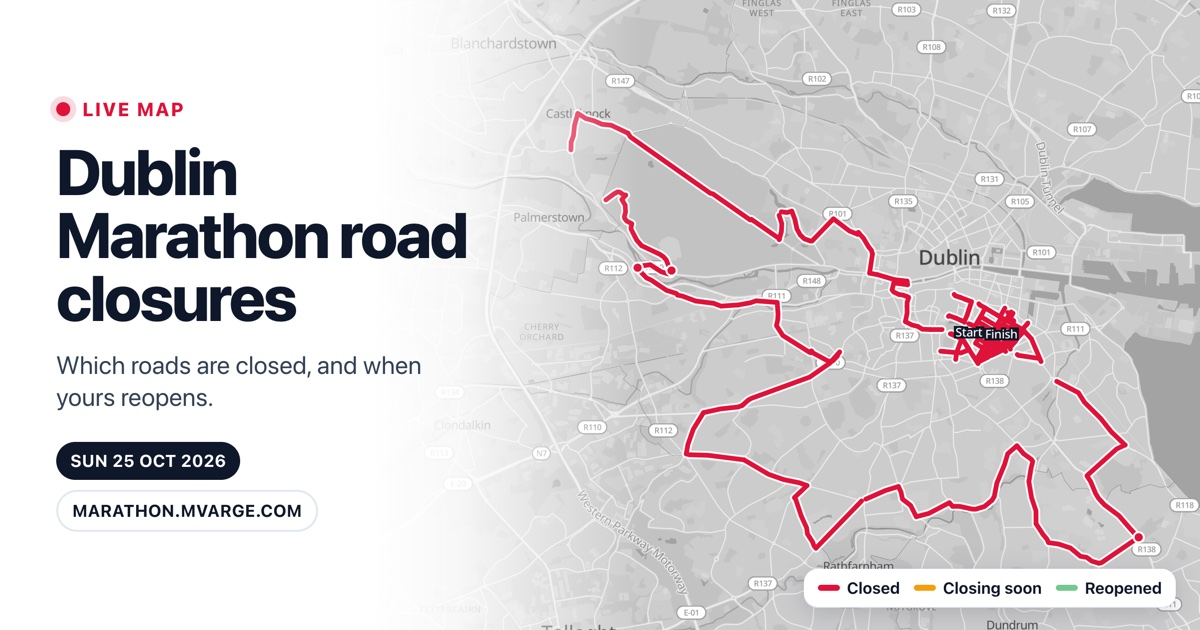
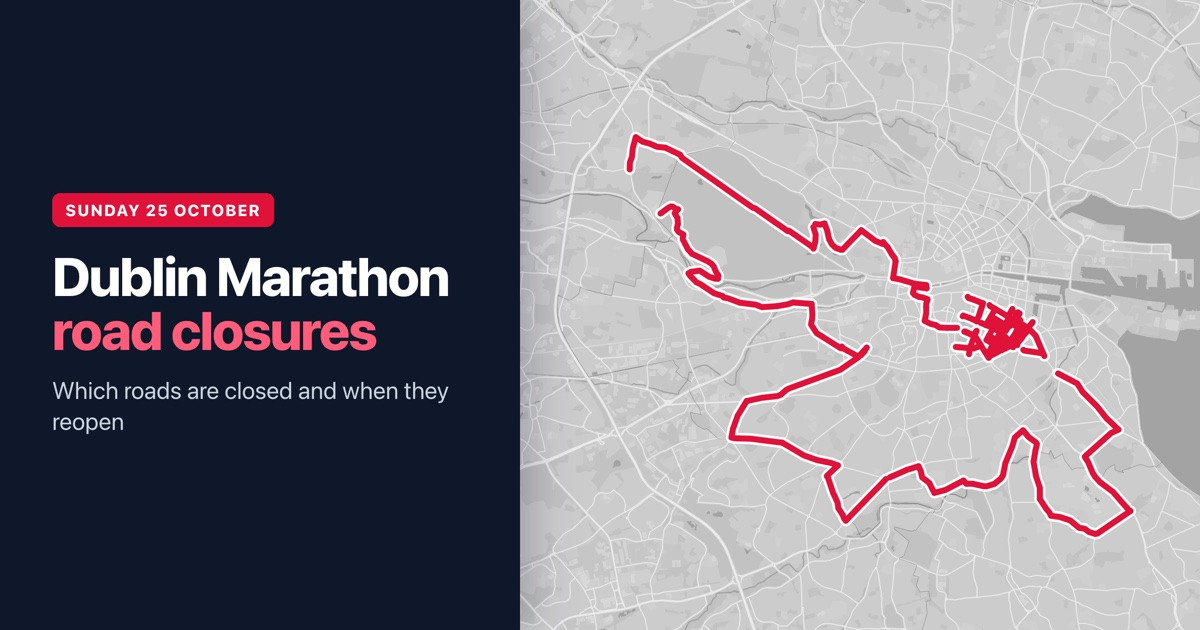
fix(og): cleaner share thumbnail
Dark text panel and label-free map with closed roads in bold red.
Shorter copy and smaller type. Served as og.jpg?v=3 so Reddit and
other link previews fetch the new image instead of a cached one.

diff --git a/index.html b/index.html
@@ -13,7 +13,7 @@
     <link rel="canonical" href="https://marathon.mvarge.com/" />
     <meta property="og:title" content="Dublin Marathon road closures: live map" />
     <meta property="og:description" content="See which roads are closed right now, and when your road reopens. Sunday 25 October 2026." />
-    <meta property="og:image" content="https://marathon.mvarge.com/og.jpg" />
+    <meta property="og:image" content="https://marathon.mvarge.com/og.jpg?v=3" />
     <meta property="og:image:width" content="1200" />
     <meta property="og:image:height" content="630" />
     <meta property="og:image:type" content="image/jpeg" />
@@ -23,7 +23,7 @@
     <meta name="twitter:card" content="summary_large_image" />
     <meta name="twitter:title" content="Dublin Marathon road closures: live map" />
     <meta name="twitter:description" content="See which roads are closed right now, and when your road reopens. Sunday 25 October 2026." />
-    <meta name="twitter:image" content="https://marathon.mvarge.com/og.jpg" />
+    <meta name="twitter:image" content="https://marathon.mvarge.com/og.jpg?v=3" />
 
     <link rel="preload" href="/data/closures.geojson" as="fetch" crossorigin />
   </head>
